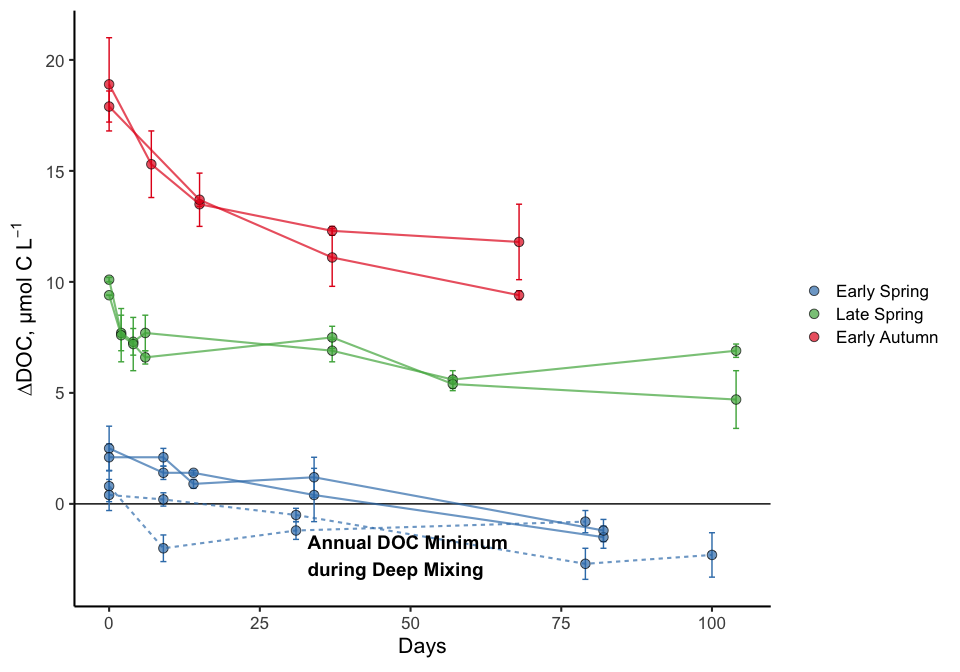
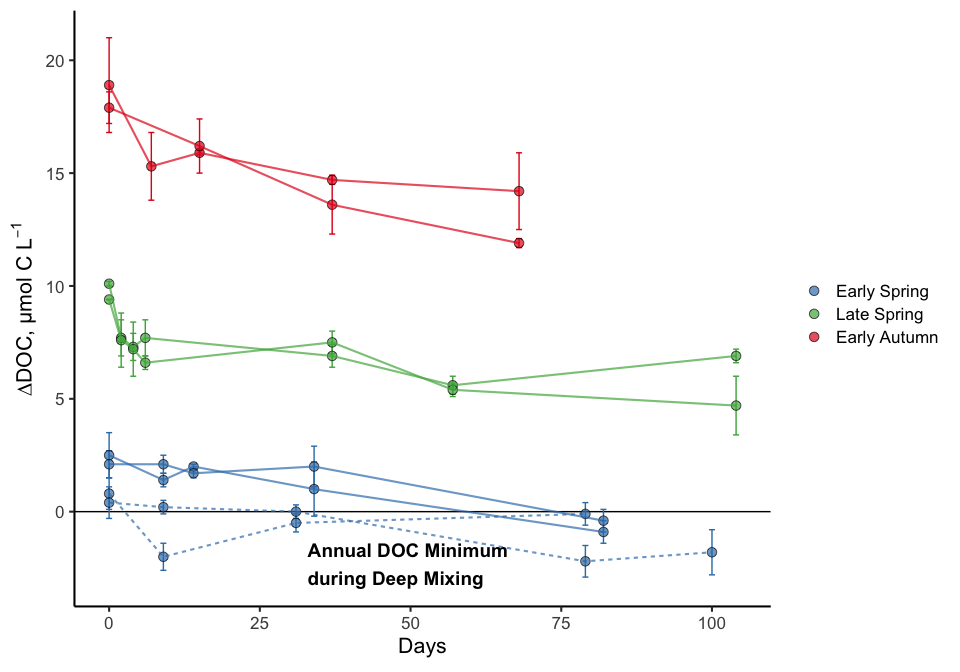
finalize for submission1

diff --git a/rmd/BCD_DOC-Bioavailability.md b/rmd/BCD_DOC-Bioavailability.md
@@ -57,11 +57,18 @@ bge <- read_rds("~/GITHUB/naames_bioav_ms/Output/processed_bge.rds") %>%
   ungroup() %>% 
   group_by(Cruise, Station, Treatment, Hours) %>% 
   mutate(trt_combined_doc = ifelse(!is.na(sd_combined_doc), round(mean(combined_doc, na.rm = T), 1), NA),
-         sd_trt_combined_doc = ifelse(!is.na(sd_combined_doc), round(sd(combined_doc, na.rm = T), 1), NA)) %>% 
+         sd_trt_combined_doc = ifelse(!is.na(sd_combined_doc), round(sd(combined_doc, na.rm = T), 1), NA),
+         
+         trt_doc_toc = ifelse(Cruise == "AT34", round(mean(interp_doc, na.rm = T), 1), round(mean(interp_ptoc, na.rm = T))),
+         sd_trt_doc_toc = ifelse(Cruise == "AT34", round(sd(interp_doc, na.rm = T), 1), round(sd(interp_ptoc, na.rm = T)))
+         ) %>% 
   ungroup() %>% 
   group_by(Season, Station, Treatment) %>% 
   mutate(norm_doc =  round(trt_combined_doc - first(trt_combined_doc), 1),
          sd_norm_doc = ifelse(Hours != 0,  sd_trt_combined_doc, NA),
+         norm_doc_toc =  round(trt_doc_toc - first(trt_doc_toc), 1),
+         sd_norm_doc_toc = ifelse(Hours != 0,  sd_trt_doc_toc, NA),
+         
          norm_cells = station_cells - first(station_cells),
          sd_norm_cells = ifelse(Hours != 0, sd_station_cells, NA)) %>% 
   ungroup() %>% 
@@ -81,8 +88,7 @@ bge_summary <- read_rds("~/GITHUB/naames_bioav_ms/Output/bge_summary.rds") %>%
   left_join(., export_bioav %>% select(Season, Cruise, Station, degree_bin) %>% distinct()) %>% 
   mutate(degree_bin = ifelse(is.na(degree_bin), 39, degree_bin)) %>% 
   select(Season:Station, degree_bin, everything()) %>% 
-  mutate(Season = ifelse(Season == "Late Autumn", "Early Winter", Season)) %>% 
-  mutate(ccf = (del.poc * (12 * 10^9)/del.cells))
+  mutate(Season = ifelse(Season == "Late Autumn", "Early Winter", Season)) 
 ```
 
     ## Joining, by = c("Season", "Cruise")
@@ -336,8 +342,8 @@ ba_curves <- bge %>%
   geom_errorbar(aes(ymin = norm_cells - sd_norm_cells, ymax = norm_cells + sd_norm_cells, color = factor(degree_bin)), width = 0.3, alpha = 0.5) +
   geom_line(aes(color = factor(degree_bin)), alpha = 0.7) +
   geom_point(aes(fill = factor(degree_bin)), size = 3, shape = 21, alpha = 0.7) +
-  scale_color_brewer(palette = "RdBu") +
-  scale_fill_brewer(palette = "RdBu") +
+  scale_color_viridis_d(option = "viridis") +
+  scale_fill_viridis_d(option = "viridis") +
  labs(x = expression(""), y = expression(paste("Bacterial Abundance, Cells L"^-1)), fill = "Latitude, ˚N") +
   theme_classic2(base_size = 16) +
   guides(color = F, linetype = F) + facet_grid(~factor(Season, levels = levels))
@@ -349,17 +355,17 @@ ba_curves <- bge %>%
 doc_curves <-  bge %>% 
   filter(Treatment == "Control") %>% 
   drop_na(sd_combined_doc) %>% 
-  select(Season, Station, degree_bin, Days, norm_doc, sd_norm_doc) %>% 
+  select(Season, Station, degree_bin, Days, norm_doc_toc, sd_norm_doc_toc) %>% 
   distinct() %>% 
   # filter(!Cruise == "AT34" | !S,tation == 3) %>% #did not calc bge or cell resp due to data coming from post stationary
-  ggplot(aes(x = Days, y = norm_doc, group = interaction(Season, Station))) +
-  geom_errorbar(aes(ymin = norm_doc - sd_norm_doc, ymax = norm_doc + sd_norm_doc, color = factor(degree_bin)), width = 1, alpha = 0.5) +
+  ggplot(aes(x = Days, y = norm_doc_toc, group = interaction(Season, Station))) +
+  geom_errorbar(aes(ymin = norm_doc_toc - sd_norm_doc_toc, ymax = norm_doc_toc + sd_norm_doc_toc, color = factor(degree_bin)), width = 1, alpha = 0.5) +
   geom_line(aes(color = factor(degree_bin)), alpha = 0.7) +
   geom_point(aes(fill = factor(degree_bin)), size = 3, shape = 21, alpha = 0.7) +
-  scale_color_brewer(palette = "RdBu") +
-  scale_fill_brewer(palette = "RdBu") +
+  scale_color_viridis_d(option = "viridis") +
+  scale_fill_viridis_d(option = "viridis") +
  # labs(x = expression("Days"), y = expression(paste("DOC"^"(*)",", µmol C L"^-1)), fill = "") +
-  labs(x = expression("Days"), y = expression(paste("DOC(*), µmol C L"^-1)), fill = "") +
+  labs(x = expression("Days"), y = expression(paste("DOC or TOC, µmol C L"^-1)), fill = "") +
   theme_classic2(base_size = 16) +
   theme(strip.background.x = element_blank(),
         strip.text.x = element_blank()) +
@@ -371,15 +377,15 @@ doc_curves <-  bge %>%
 doc_curves2 <-  bge %>% 
   filter(Treatment == "Control", Days <= 20) %>% 
   drop_na(sd_combined_doc) %>% 
-  select(Season, Station, degree_bin, Days, norm_doc, sd_norm_doc) %>% 
+  select(Season, Station, degree_bin, Days, norm_doc_toc, sd_norm_doc_toc) %>% 
   distinct() %>% 
   # filter(!Cruise == "AT34" | !S,tation == 3) %>% #did not calc bge or cell resp due to data coming from post stationary
-  ggplot(aes(x = Days, y = norm_doc, group = interaction(Season, Station))) +
-  geom_errorbar(aes(ymin = norm_doc - sd_norm_doc, ymax = norm_doc + sd_norm_doc, color = factor(degree_bin)), width = 0.5, alpha = 0.3) +
+  ggplot(aes(x = Days, y = norm_doc_toc, group = interaction(Season, Station))) +
+  geom_errorbar(aes(ymin = norm_doc_toc - sd_norm_doc_toc, ymax = norm_doc_toc + sd_norm_doc_toc, color = factor(degree_bin)), width = 0.5, alpha = 0.3) +
   geom_line(aes(color = factor(degree_bin)), alpha = 0.7) +
   geom_point(aes(fill = factor(degree_bin)), size = 3, shape = 21, alpha = 0.7) +
-  scale_color_brewer(palette = "RdBu") +
-  scale_fill_brewer(palette = "RdBu") +
+  scale_color_viridis_d(option = "viridis") +
+  scale_fill_viridis_d(option = "viridis") +
  labs(x = expression("Days"), y = expression(paste("DOC, µmol C L"^-1)), fill = "") +
   theme_classic2(base_size = 16) +
   theme(strip.background.x = element_blank(),
@@ -464,9 +470,9 @@ compare_means(longterm.del.doc ~ Cruise, longterm_delta_stats, method = "kruskal
 ```
 
     ## # A tibble: 1 x 6
-    ##   .y.                    p  p.adj p.format p.signif method        
-    ##   <chr>              <dbl>  <dbl> <chr>    <chr>    <chr>         
-    ## 1 longterm.del.doc 0.00167 0.0017 0.0017   **       Kruskal-Wallis
+    ##   .y.                    p   p.adj p.format p.signif method        
+    ##   <chr>              <dbl>   <dbl> <chr>    <chr>    <chr>         
+    ## 1 longterm.del.doc 0.00240 0.00240 0.0024   **       Kruskal-Wallis
 
 ``` r
 compare_means(longterm.del.doc ~ Cruise, longterm_delta_stats)
@@ -475,9 +481,9 @@ compare_means(longterm.del.doc ~ Cruise, longterm_delta_stats)
     ## # A tibble: 3 x 8
     ##   .y.              group1 group2       p  p.adj p.format p.signif method  
     ##   <chr>            <chr>  <chr>    <dbl>  <dbl> <chr>    <chr>    <chr>   
-    ## 1 longterm.del.doc AT34   AT38   0.00130 0.0039 0.0013   **       Wilcoxon
-    ## 2 longterm.del.doc AT34   AT39   0.120   0.12   0.1198   ns       Wilcoxon
-    ## 3 longterm.del.doc AT38   AT39   0.0165  0.033  0.0165   *        Wilcoxon
+    ## 1 longterm.del.doc AT34   AT38   0.00179 0.0054 0.0018   **       Wilcoxon
+    ## 2 longterm.del.doc AT34   AT39   0.305   0.3    0.3046   ns       Wilcoxon
+    ## 3 longterm.del.doc AT38   AT39   0.00752 0.015  0.0075   **       Wilcoxon
 
 ``` r
 longterm_delta_stats %>% 
@@ -489,8 +495,8 @@ longterm_delta_stats %>%
     ##   Cruise .y.                  n statistic    df      p method        
     ## * <chr>  <chr>            <int>     <dbl> <int>  <dbl> <chr>         
     ## 1 AT34   longterm.del.doc     7      5.14     4 0.273  Kruskal-Wallis
-    ## 2 AT38   longterm.del.doc    12      9.22     5 0.101  Kruskal-Wallis
-    ## 3 AT39   longterm.del.doc    12      4.15     1 0.0415 Kruskal-Wallis
+    ## 2 AT38   longterm.del.doc    12      4.31     5 0.506  Kruskal-Wallis
+    ## 3 AT39   longterm.del.doc    10      2.94     1 0.0864 Kruskal-Wallis
 
 ``` r
 longterm_delta_stats %>% 
@@ -502,8 +508,8 @@ longterm_delta_stats %>%
     ## # A tibble: 2 x 4
     ##   season  mean    sd foldchange
     ##   <chr>  <dbl> <dbl>      <dbl>
-    ## 1 Autumn  5.78  1.35       1.54
-    ## 2 Spring  3.76  1.24       1.54
+    ## 1 Autumn  4.84 1.03        1.43
+    ## 2 Spring  3.39 0.854       1.43
 
 ``` r
 longterm_delta_stats %>% 
@@ -514,22 +520,7 @@ longterm_delta_stats %>%
     ## # A tibble: 1 x 3
     ##    mean    sd    cv
     ##   <dbl> <dbl> <dbl>
-    ## 1  4.54  1.61 0.355
-
-\#CCFs
-
-``` r
-bge_summary %>% 
-  group_by(Cruise) %>% 
-  summarize_at(vars(ccf), list(mean = mean, sd = sd), na.rm = T)
-```
-
-    ## # A tibble: 3 x 3
-    ##   Cruise  mean    sd
-    ##   <chr>  <dbl> <dbl>
-    ## 1 AT34    29.4 63.1 
-    ## 2 AT38    18.8 17.4 
-    ## 3 AT39    20.5  8.25
+    ## 1  3.99  1.17 0.292
 
 # BGE
 
@@ -539,16 +530,26 @@ bge_box <- bge_summary %>%
   ggplot(aes(x = factor(Season, levels = levels), y = bge)) +
   geom_boxplot(width = 0.3) +
   geom_point(aes(fill = factor(degree_bin)), shape = 21, size = 3, alpha = 0.7) +
+  scale_color_viridis_d(option = "viridis") +
+  scale_fill_viridis_d(option = "viridis") +
   theme_classic2(base_size = 16) +
   # scale_fill_brewer(palette = "Dark2") +
-  scale_fill_manual(values = matlab.colors) +
   labs(x = "", y = "BGE", fill = "Latitude, ˚N") + 
   stat_compare_means()  
   
   bge_box
 ```
 
-![](BCD_DOC-Bioavailability_files/figure-gfm/unnamed-chunk-21-1.png)<!-- -->
+![](BCD_DOC-Bioavailability_files/figure-gfm/unnamed-chunk-20-1.png)<!-- -->
+
+``` r
+compare_means(bge ~ degree_bin, bge_summary, method = "kruskal.test")
+```
+
+    ## # A tibble: 1 x 6
+    ##   .y.       p p.adj p.format p.signif method        
+    ##   <chr> <dbl> <dbl> <chr>    <chr>    <chr>         
+    ## 1 bge   0.155  0.15 0.15     ns       Kruskal-Wallis
 
 ``` r
 ba_curves / doc_curves2 + bge_box +
@@ -599,7 +600,8 @@ station_bioav <- bioav.table.data %>%
  group_by(Cruise, Season, Station, degree_bin) %>% 
   summarize_at(vars(redis_DOC_vol:longterm.ddoc), list(mean = mean, sd = sd), na.rm = T)  %>% 
   arrange(factor(Season, levels = levels), degree_bin) %>% 
-  ungroup()
+  ungroup() %>% 
+  select(Cruise, Station, contains("persis"))
 
 cruise_bioav <- bioav.table.data %>% 
  group_by(Cruise, Season) %>% 

diff --git a/rmd/Merge_Field_Experimental_Data.md b/rmd/Merge_Field_Experimental_Data.md
@@ -260,12 +260,13 @@ exp_doc <- read_rds("~/GITHUB/naames_bioav_ms/Output/processed_bge.rds") %>%
   filter(Treatment == "Control") %>% 
   select(Cruise, Station, degree_bin, Bottle, Hours, Days, stationary.harvest, interp_ptoc, sd_ptoc, interp_doc, sd_doc, i.poc, s.poc, contains("del.doc")) %>% 
   mutate(doc_star = ifelse(Cruise != "AT34" & Hours < stationary.harvest, round(interp_ptoc - i.poc,1), round(interp_ptoc - s.poc,1)),
+         doc_star = ifelse(Cruise != "AT34" & Hours > stationary.harvest, interp_ptoc, doc_star),
          combined_doc = ifelse(Cruise == "AT34", interp_doc, doc_star),
           sd_combined_doc = ifelse(Cruise == "AT34", sd_doc, sd_ptoc))  %>%  
   group_by(Cruise, Station, Bottle) %>% 
   mutate(end.remin = last(Hours),
          initial.doc = first(combined_doc),
-         longterm.del.doc = first(combined_doc) - last(na.omit(combined_doc)),
+         longterm.del.doc = ifelse(Cruise != "AT34", first(interp_ptoc) - last(na.omit(interp_ptoc)), first(interp_doc) - last(na.omit(interp_doc))),
          longterm.del.doc = ifelse(longterm.del.doc < 2, NA, longterm.del.doc),
          shortterm.del.doc = ifelse(Cruise == "AT34", del.doc, del.doc.star)) 
 
